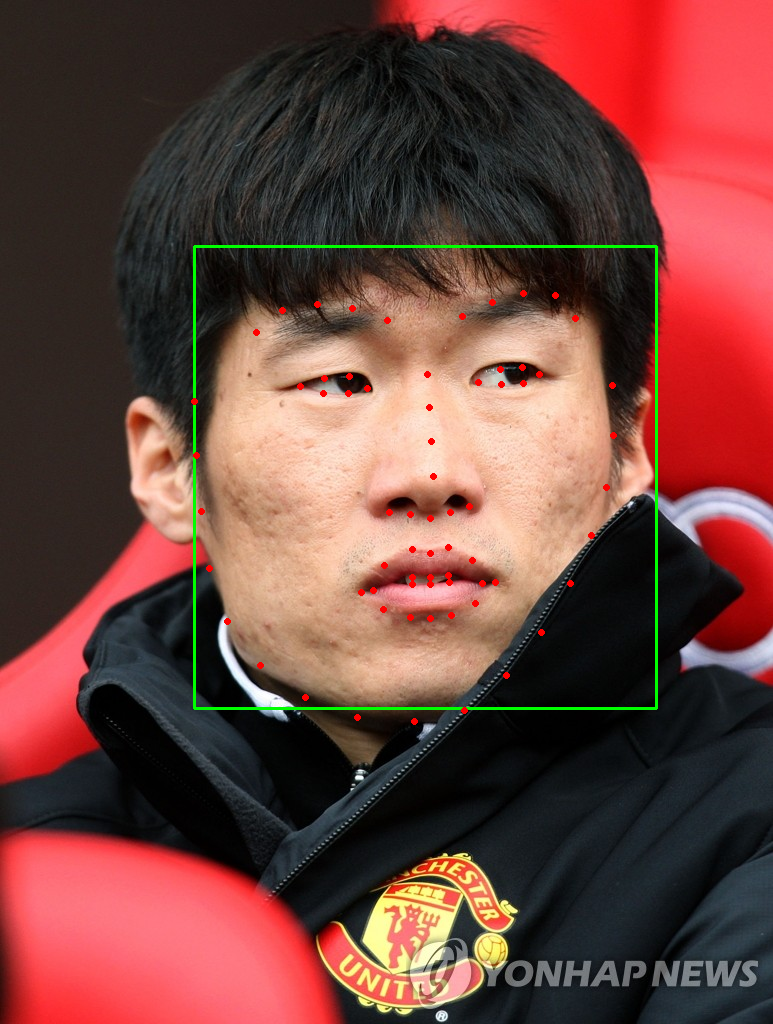
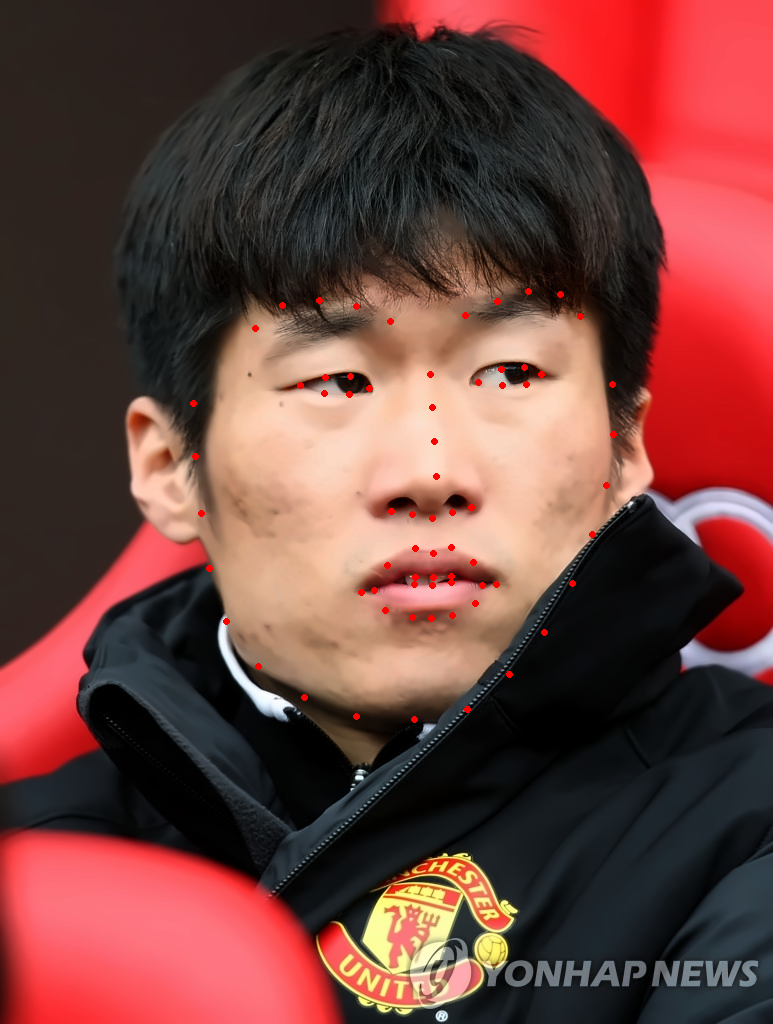
modify gitignore&main / add retouching

diff --git a/main.py b/main.py
@@ -2,26 +2,47 @@ import sys
 import dlib
 import cv2
 import numpy as np
+from core.retouching import retouching
+import argparse
 
-def main():
-    image_path = sys.argv[1]
-    background_path = sys.argv[2] if len(sys.argv) > 2 else None
-    image = cv2.imread(image_path)
+
+def main(args):
+    # image_path = sys.argv[1]
+    # background_path = sys.argv[2] if len(sys.argv) > 2 else None
+    image = cv2.imread(args.image_dir)
 
     # TODO... FACE DETECTION
     detector = dlib.get_frontal_face_detector()
     predictor = dlib.shape_predictor('shape_predictor_68_face_landmarks.dat')
 
     face = detector(image, 1)[0]
-    cv2.rectangle(image, (face.left(), face.top()), (face.right(), face.bottom()), (0, 255, 0), 2)
+    # cv2.rectangle(image, (face.left(), face.top()),
+    #               (face.right(), face.bottom()), (0, 255, 0), 2)
 
     shape = predictor(image, face)
+
+    ###Retouching###
+    image = retouching(img=image, h=args.h, shape=shape)
+
     for i in range(shape.num_parts):
         point = shape.part(i)
         cv2.circle(image, (point.x, point.y), 2, (0, 0, 255), 2)
 
-    cv2.imwrite('result/output.png', image)
+    cv2.imwrite(args.result_dir, image)
 
 
 if __name__ == '__main__':
-    main()
+    parser = argparse.ArgumentParser()
+    parser.add_argument('--image_dir', type=str, default='data/1.jpg',
+                        help='image directory')
+    parser.add_argument('--background_dir', type=str, default='data/background.jpg',
+                        help='background directory')
+    parser.add_argument('--result_dir', type=str, default='result/output.png',
+                        help='result directory')
+    parser.add_argument('--h', type=int, default=5,
+                        help='filter strength')
+    parser.add_argument('--hColor', type=int, default=5,
+                        help='filter strength for color components')
+
+    args = parser.parse_args()
+    main(args)

diff --git a/core/retouching.py b/core/retouching.py
@@ -1,0 +1,19 @@
+import numpy as np
+import cv2 as cv
+from matplotlib import pyplot as plt
+
+
+def retouching(img=None, h=5, hColor=5, shape=None):
+    dst = cv.fastNlMeansDenoisingColored(img, None, h, hColor, 7, 21)
+    cv.imwrite('result/retouched_output.jpg', dst)
+
+    b, g, r = cv.split(img)
+    img_show = cv.merge([r, g, b])
+    b, g, r = cv.split(dst)
+    dst_show = cv.merge([r, g, b])
+
+    plt.subplot(121), plt.imshow(img_show)
+    plt.subplot(122), plt.imshow(dst_show)
+    plt.show()
+
+    return dst
